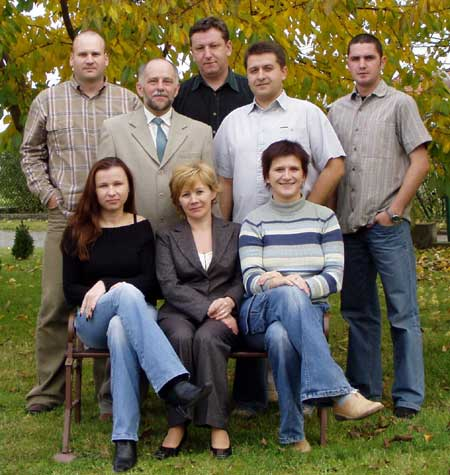
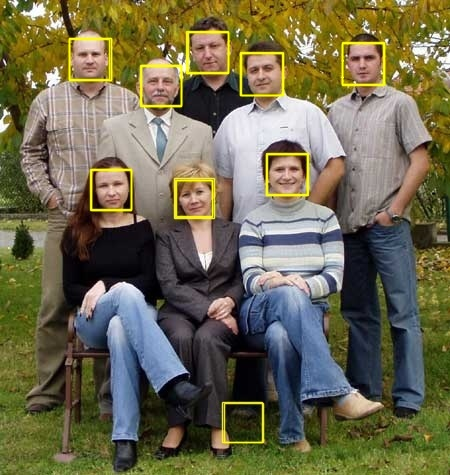
Rysowanie kwadracików i klasa testująca

diff --git a/src/FaceDetecting/Tester.java b/src/FaceDetecting/Tester.java
@@ -1,15 +1,49 @@
 package FaceDetecting;
 
-import static com.googlecode.javacv.cpp.opencv_highgui.cvLoadImage;
-
 import com.googlecode.javacv.cpp.opencv_core;
+import gui.FrameObservable;
+import gui.FrameObserver;
 
-public class Tester {
+import static com.googlecode.javacv.cpp.opencv_highgui.cvLoadImage;
+import static com.googlecode.javacv.cpp.opencv_highgui.cvSaveImage;
+
+public class Tester implements FrameObservable, FrameObserver {
+
+    FrameObserver listener;
+    opencv_core.IplImage frame;
 
     public static void main(String[] args) {
-        opencv_core.IplImage originalImage = cvLoadImage("zdjecie-grupowe.jpg", 1);
-        FaceDetector.detect(originalImage);
-        
-        
+        Tester t = new Tester();
+        FaceDetector f = new FaceDetector(t);
+        f.addListener(t);
+        t.notifyListeners();
+    }
+
+    Tester() {
+        System.out.println("Ładuję obrazek");
+        frame = cvLoadImage("testFaces/fotografia_szkolna_1.jpg", 1);
+    }
+
+    @Override
+    public void update(opencv_core.IplImage frame) {
+        System.out.println("odbieram obrobiony obrazek");
+        System.out.println(frame);
+        cvSaveImage("testFaces/zdjecie-grupowe_2.jpg", frame);
+    }
+
+    @Override
+    public void addListener(FrameObserver observer) {
+        listener = observer;
+    }
+
+    @Override
+    public void removeListener(FrameObserver observer) {
+        // Do nothing
+    }
+
+    @Override
+    public void notifyListeners() {
+        System.out.println("powiadamiam słuchaczy");
+        listener.update(frame);
     }
 }

diff --git a/src/FaceDetecting/FaceDetector.java b/src/FaceDetecting/FaceDetector.java
@@ -55,12 +55,15 @@ public class FaceDetector implements FrameObserver, FrameObservableWithCoords, F
         List<Integer[]> coords = FaceDetector.detect(frame);
         this.notifyListeners(frame, coords);
         this.frame = frame;
-        addRectangles();
+        addRectangles(coords);
         this.notifyListeners();
     }
 
-    private void addRectangles() {
-
+    private void addRectangles(List<Integer[]> coords) {
+        for(Integer[] i: coords) {
+            cvRectangle(this.frame, cvPoint(i[0], i[1]),
+                    cvPoint(i[0] + i[2], i[1] + i[3]), CvScalar.YELLOW, 1, CV_AA, 0);
+        }
     }
 
     @Override
